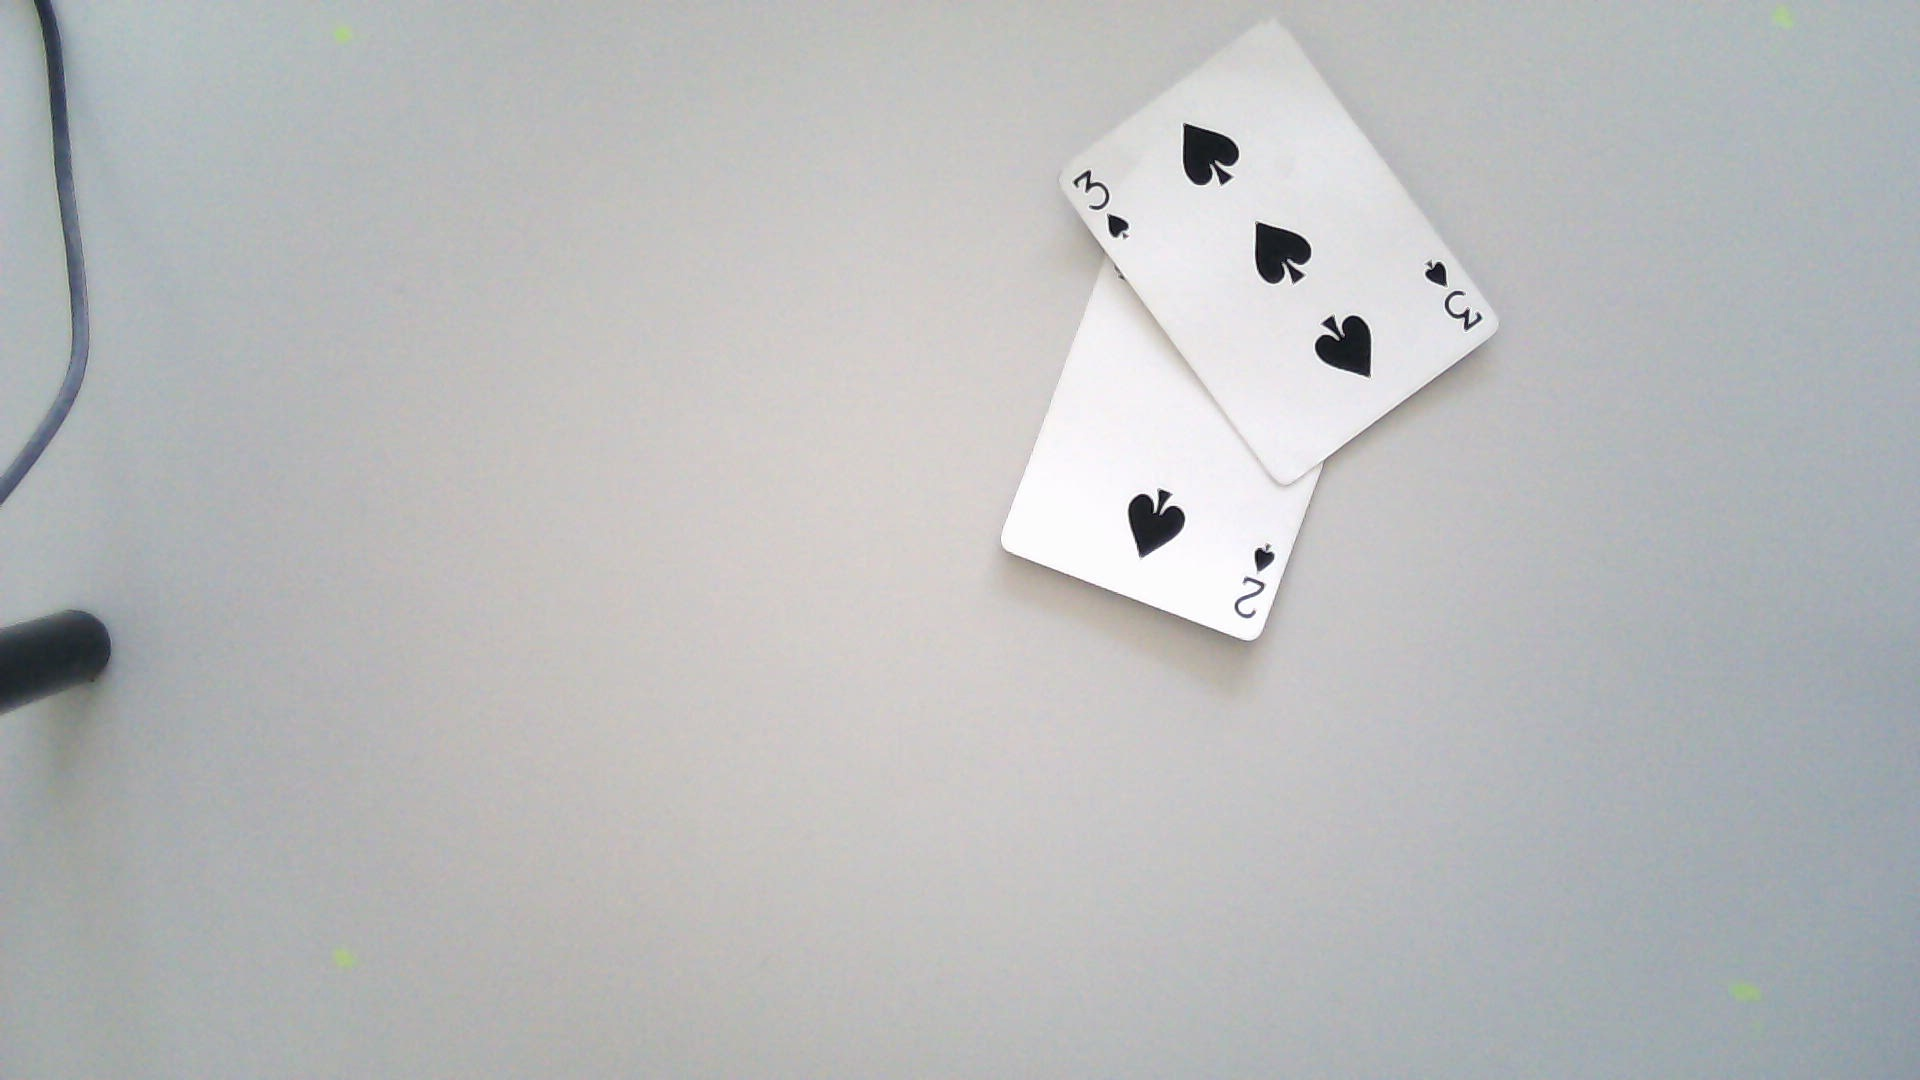
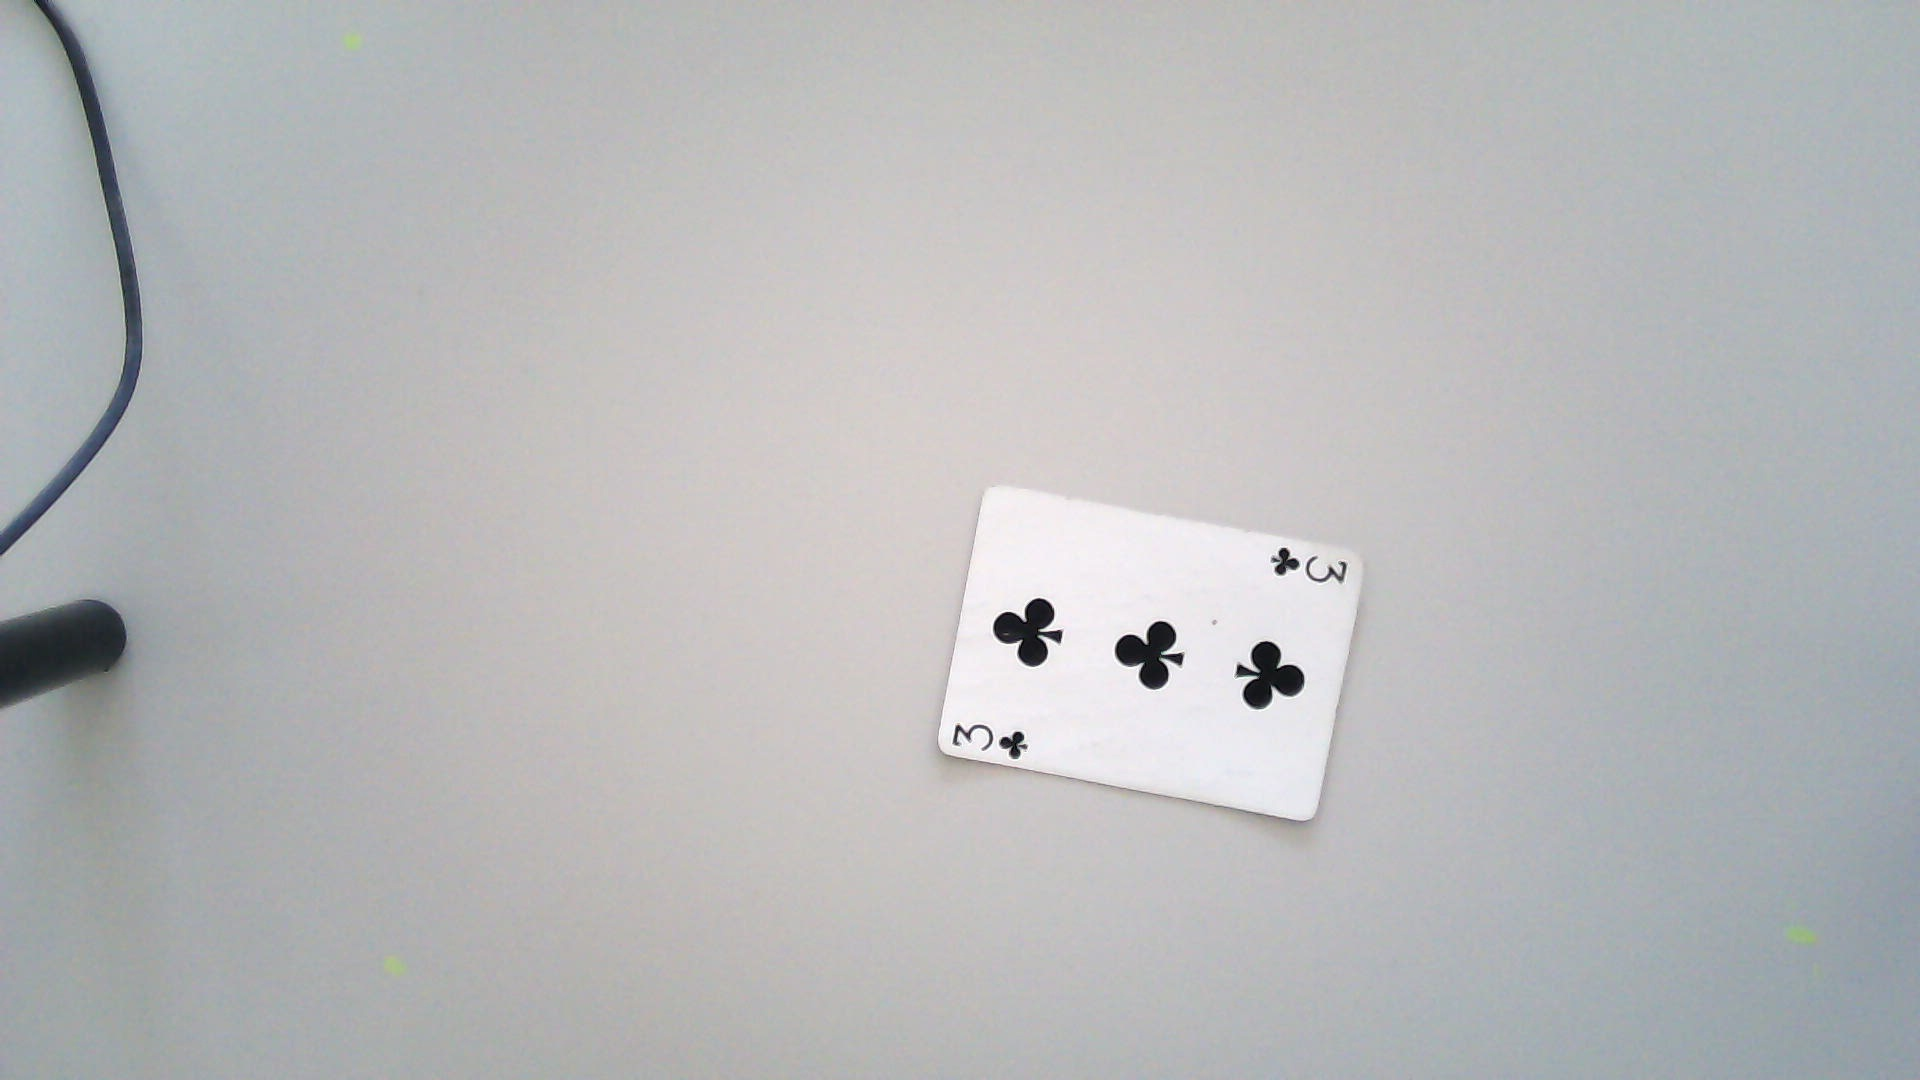
database

diff --git a/src/camera/Main.java b/src/camera/Main.java
@@ -25,44 +25,67 @@ public class Main {
 	public static void main(String[] args) throws Exception {
 		
 				
-		   for(int i = 10 ; i<=19; i++){
-		      		Capture.captureFrame("data/capture/capt"+i+".jpg");
+		  /* for(int i = 0; i<=4; i++){
+		      		Capture.captureFrame("data/database/capt"+i+".jpg");
+		      	
+		      		
 		      		Thread.sleep(5000);
-		      		i++;
+		      		/*i++;
 		      		Capture.captureFrame("data/capture/capt"+i+".jpg");
-		      		IplImage img1 = cvLoadImage("data/capture/capt"+(i-1)+".jpg");
+		      		IplImage img1 = cvLoadImage("data/database/capt"+(i-1)+".jpg");
 			      	IplImage img2 = cvLoadImage("data/capture/capt"+i+".jpg");
 			      	Image image1 = new Image(img1), image2 = new Image (img2);
-			      	BinaryImage bin = image1.difference(image2);
+			      	BinaryImage bin = image1.differenceNeighbour(image2);
 			      	
 			      	cvSaveImage("data/binary/bin"+i/2+".jpg", bin.getBinaryImage());
 			      	
 			      	
 		      		
-		      	}
+		      	}*/
 		      	 
-		      	/* IplImage img1 = cvLoadImage("data/capture0.jpg");
-		      	IplImage img2 = cvLoadImage("data/capture1.jpg");
+		      	/* IplImage img1 = cvLoadImage("data/capture0.jpg");*/
+		      	IplImage img0 = cvLoadImage("data/database/capt0.jpg");
+		      	IplImage img1 = cvLoadImage("data/database/capt1.jpg");
+		      	IplImage img2 = cvLoadImage("data/database/capt2.jpg");
+		      	IplImage img3 = cvLoadImage("data/database/capt3.jpg");
+		      	IplImage img4 = cvLoadImage("data/database/capt4.jpg");
+		      	
 		
+		      	/*Image image1 = new Image(img1);*/
+		      	Image image0 = new Image(img0);
 		      	Image image1 = new Image(img1);
 		      	Image image2 = new Image(img2);
+		      	Image image3 = new Image(img3);
+		      	Image image4 = new Image(img4);
 		      	
 		   
-		IplImage image = cvLoadImage("data/binary/bintest.jpg");
-		BinaryImage bin = new BinaryImage(new Image (image));
+		//IplImage image = cvLoadImage("data/binary/bintest.jpg");
+		//BinaryImage bin = new BinaryImage(new Image (image));
 		
-		bin.saveToText("data/text2.txt");
+		//bin.saveToText("data/text2.txt");
 		
-		int[][] mattest = BinaryImage.matrixFromTextFile("data/text2.txt");
-		
-		System.out.println(mattest[0][0]);
+		//int[][] mattest = BinaryImage.matrixFromTextFile("data/text2.txt");
 		
 		
 		
-		      //	int[][] mat = new int[][]{{855,602},{1116,610},{947,484},{1023,728}};
-		      
-		      //	Image image3 = image2.resample(mat, 67, 95);
-		      	
+		
+		    int[][] mat0 = new int[][]{{862,330},{1138,342},{850,714},{1124,724}};
+		    int[][] mat1 = new int[][]{{882,222},{1160,236},{870,606},{1142,620}};
+		    int[][] mat2 = new int[][]{{908,266},{1182,252},{928,652},{1204,636}};
+		    int[][] mat3 = new int[][]{{954,260},{1228,266},{942,646},{1216,652}};
+		    int[][] mat4 = new int[][]{{926,292},{1198,272},{958,678},{1234,656}};
+		    
+		   Image imagebis0 = image0.resample(mat0, 635, 889);
+		   Image imagebis1 = image1.resample(mat1, 635, 889);
+		   Image imagebis2 = image2.resample(mat2, 635, 889);
+		   Image imagebis3 = image3.resample(mat3, 635, 889);
+		   Image imagebis4 = image4.resample(mat4, 635, 889);
+		   
+		   cvSaveImage("damecarreau.jpg", imagebis0.getRgbImage());
+		   cvSaveImage("dixpique.jpg", imagebis1.getRgbImage());
+		   cvSaveImage("astrefle.jpg", imagebis2.getRgbImage());
+		   cvSaveImage("septcarreau.jpg", imagebis3.getRgbImage());
+		   cvSaveImage("roicarreau.jpg", imagebis4.getRgbImage());
 		        
 		      
 		       /* JFrame mainframe = new JFrame();

diff --git a/src/camera/Image.java b/src/camera/Image.java
@@ -141,7 +141,7 @@ public class Image {
 			for(int j = 0; j < height; j++){
 				distance = 0;
 				pixel = getRgbByte(i,j);
-				voisin = image.voisin(i, j, pixel);
+				voisin = image.neighbour(i, j, pixel);
 				for (int k = 0; k < 2; k ++){
 					distance = distance + Math.abs(voisin[k] - pixel[k]);	
 				}	
